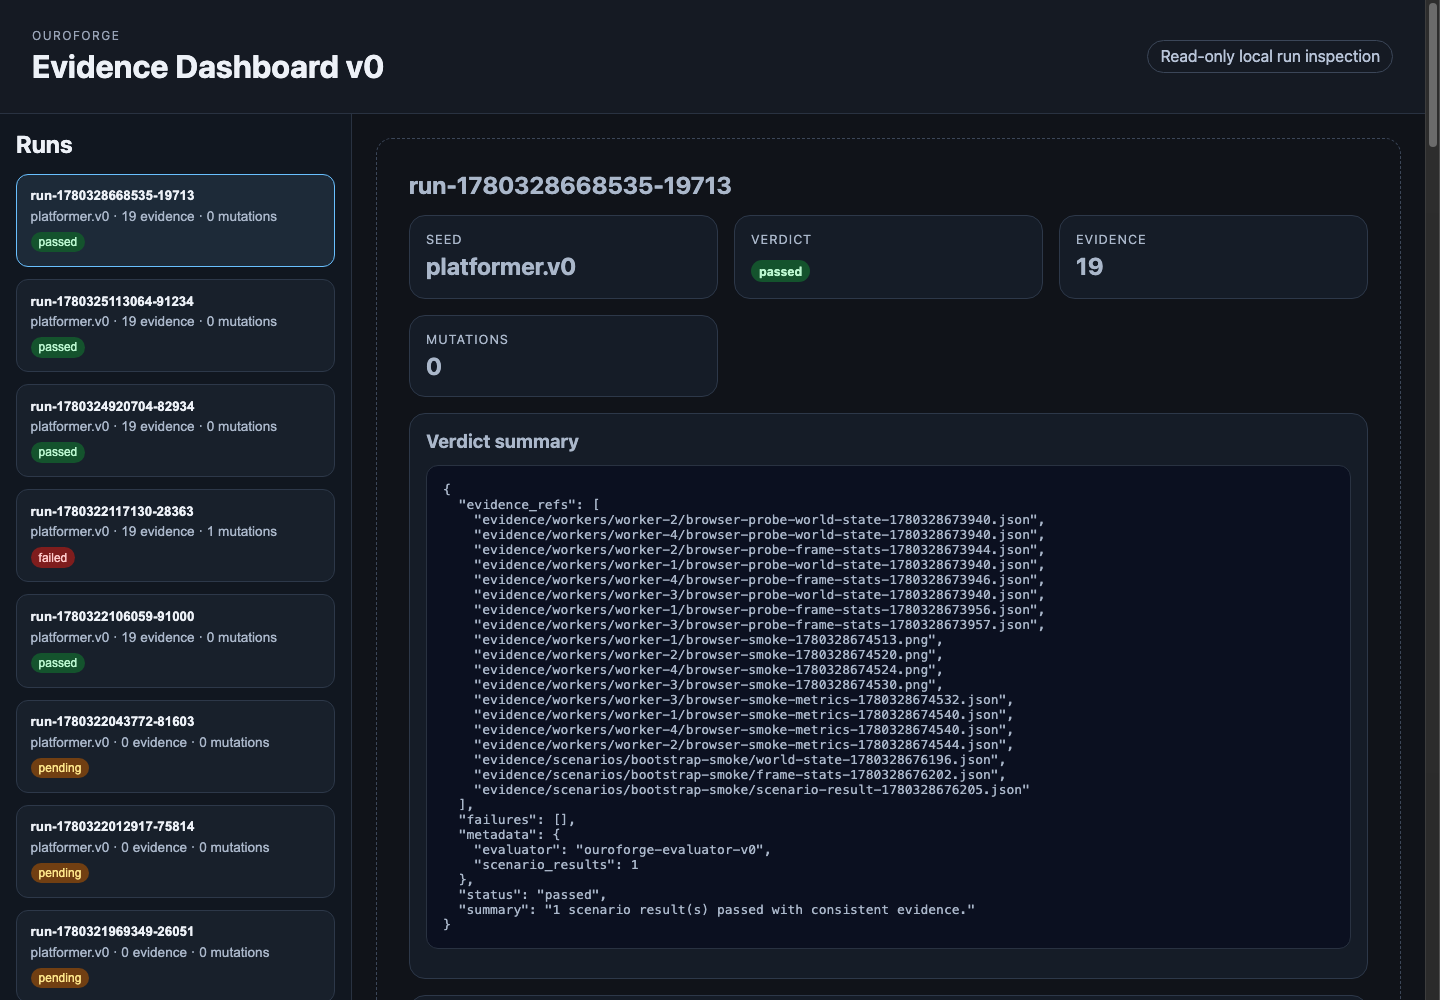
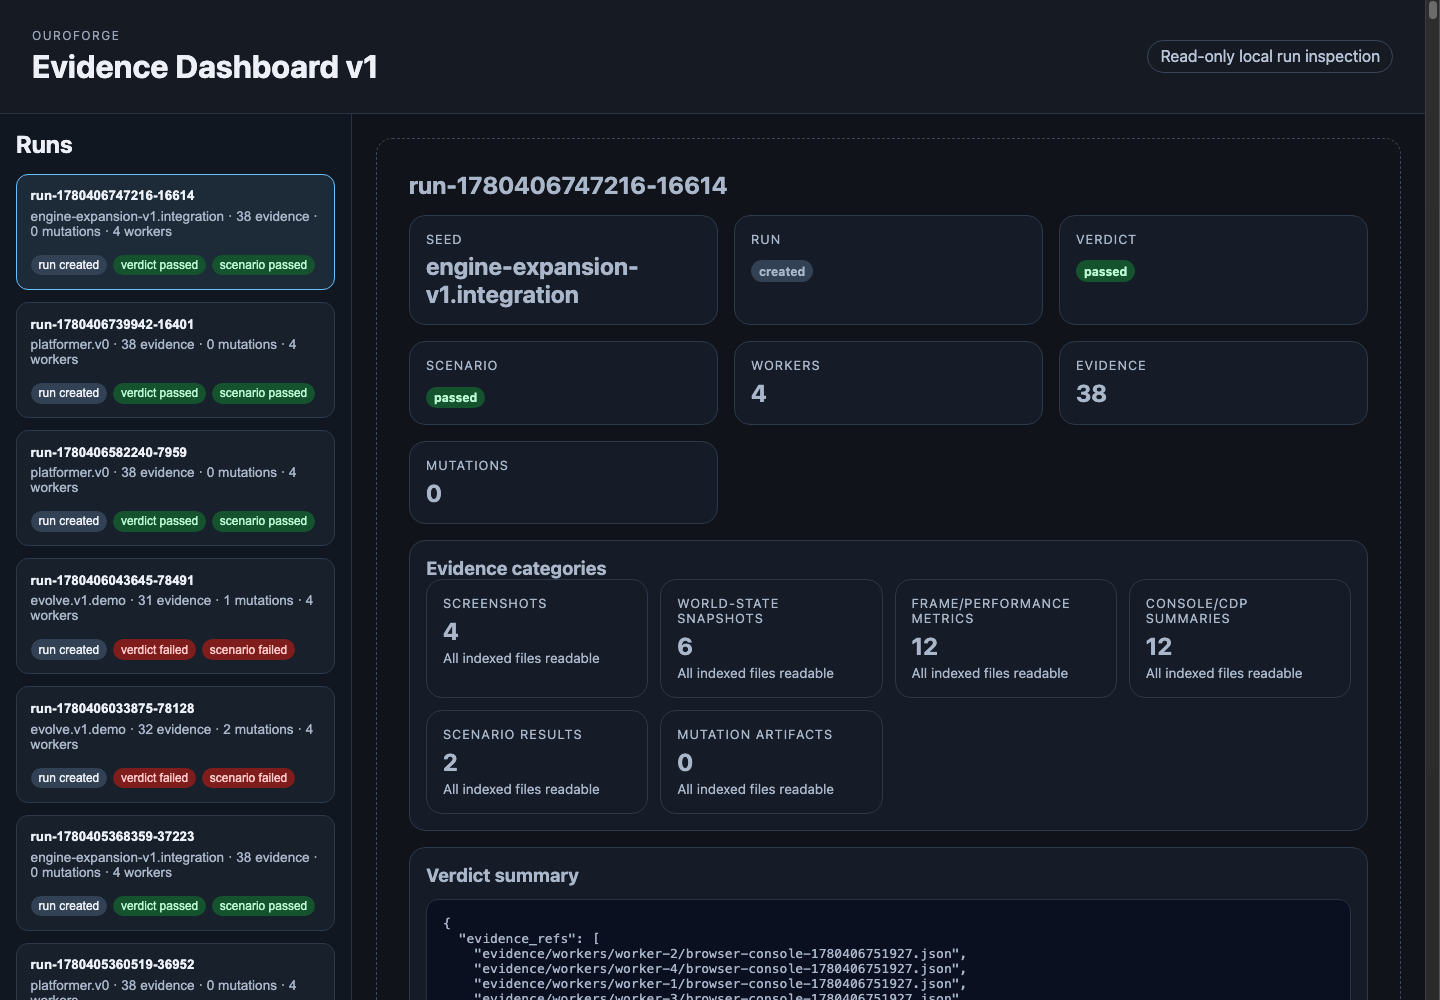
Refresh public demo media for Studio v2 (#242)
Constraint: Issue #217 AL2.8.2 is limited to stale public demo media and conservative wording drift after Studio v2.
Rejected: Adding new authoring functionality | This PR only updates labels, screenshots, and demo evidence text to match already-merged surfaces.
Confidence: high
Scope-risk: narrow
Directive: Keep cockpit wording as a local static evidence surface, not a production editor claim.
Tested: node --check examples/authoring-cockpit/cockpit.js; node examples/authoring-cockpit/cockpit.test.cjs; node --check examples/evidence-dashboard/dashboard.js; node examples/evidence-dashboard/dashboard.test.cjs; cargo fmt --check; refreshed docs/assets/demo/*.png via local Chrome headless and visually checked the cockpit/dashboard/runtime screenshots.
Not-tested: Full cargo test for this media-only PR; post-merge #241 workspace tests passed and focused Node/fmt checks cover label drift.

diff --git a/examples/authoring-cockpit/cockpit.js b/examples/authoring-cockpit/cockpit.js
@@ -288,8 +288,8 @@ const OuroforgeCockpit = (() => {
 
   function renderStudioNavigation(run) {
     const items = studioSurfaceSummary(run);
-    return `<nav class="studio-nav" aria-label="Studio v1 surfaces">
-      <h2>Studio v1 demo surfaces</h2>
+    return `<nav class="studio-nav" aria-label="Studio v2 surfaces">
+      <h2>Studio v2 demo surfaces</h2>
       <p class="hint">Static local composition only. Browser UI inspects artifacts and generates Rust commands; it does not write files directly or claim production editor maturity.</p>
       <div class="surface-grid">${items.map((item) => `<a class="surface-card" href="#${escapeText(item.id)}">
         <strong>${escapeText(item.label)}</strong><br>${surfaceState(item.present)}<br><small>${escapeText(item.detail)}</small>

diff --git a/examples/authoring-cockpit/index.html b/examples/authoring-cockpit/index.html
@@ -3,14 +3,14 @@
   <head>
     <meta charset="utf-8" />
     <meta name="viewport" content="width=device-width, initial-scale=1" />
-    <title>Ouroforge Studio v1 Demo Cockpit</title>
+    <title>Ouroforge Studio v2 Authoring Cockpit</title>
     <link rel="stylesheet" href="styles.css" />
   </head>
   <body>
     <header>
       <div>
         <p class="eyebrow">Ouroforge</p>
-        <h1>Studio v1 Demo Cockpit</h1>
+        <h1>Studio v2 Authoring Cockpit</h1>
       </div>
       <p class="guardrail">Local static · read-only evidence loop</p>
     </header>

diff --git a/docs/public-demo-evidence.md b/docs/public-demo-evidence.md
@@ -6,13 +6,13 @@ Status: pre-release MVP evidence for public-readiness review; this is not a laun
 
 ## Demo media
 
-The screenshots below were captured from the static local MVP surfaces with Chrome headless and a local `python3 -m http.server` process. They are committed as public demo references, not generated run evidence.
+The screenshots below were refreshed on 2026-06-02 from the static local MVP surfaces with Chrome headless and a local `python3 -m http.server` process. They are committed as public demo references, not generated run evidence. The refreshed dashboard and cockpit captures use the AL2.8.1 generated dashboard export, including Platformer and Engine Expansion v1 smoke runs.
 
 | Surface | Screenshot | Scope boundary |
 | --- | --- | --- |
 | Minimal 2D runtime | [`docs/assets/demo/runtime-demo.png`](assets/demo/runtime-demo.png) | Canvas/runtime demo only; no engine compatibility promise. |
 | Evidence dashboard | [`docs/assets/demo/evidence-dashboard.png`](assets/demo/evidence-dashboard.png) | Read-only inspection of exported run data. |
-| Authoring cockpit | [`docs/assets/demo/authoring-cockpit.png`](assets/demo/authoring-cockpit.png) | Static cockpit prototype; browser does not write files directly. |
+| Authoring cockpit | [`docs/assets/demo/authoring-cockpit.png`](assets/demo/authoring-cockpit.png) | Static Studio v2 cockpit prototype; browser does not write files directly or execute commands. |
 
 Capture commands used locally:
 
@@ -33,6 +33,8 @@ CHROME=${OUROFORGE_CHROME:-"/Applications/Google Chrome.app/Contents/MacOS/Googl
   --screenshot=docs/assets/demo/authoring-cockpit.png --window-size=1440,1000 \
   http://127.0.0.1:8765/examples/authoring-cockpit/index.html
 ```
+
+AL2.8.2 refresh wrote current image files for all three surfaces. Chrome headless emitted local updater/crashpad noise during capture; the tracked PNG files were still written and visually checked.
 
 ## Chrome requirement
 